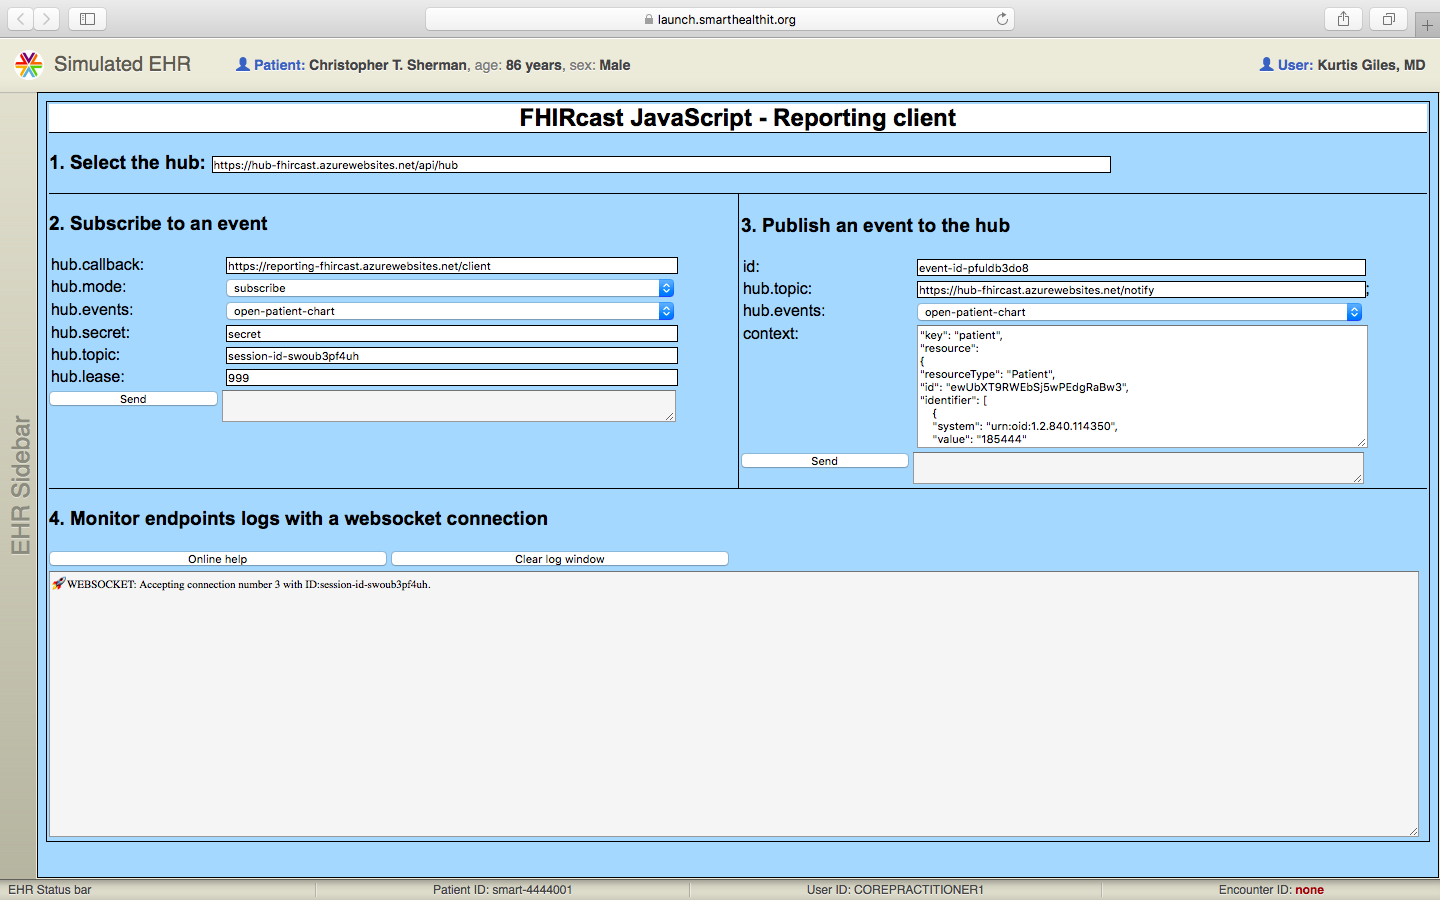
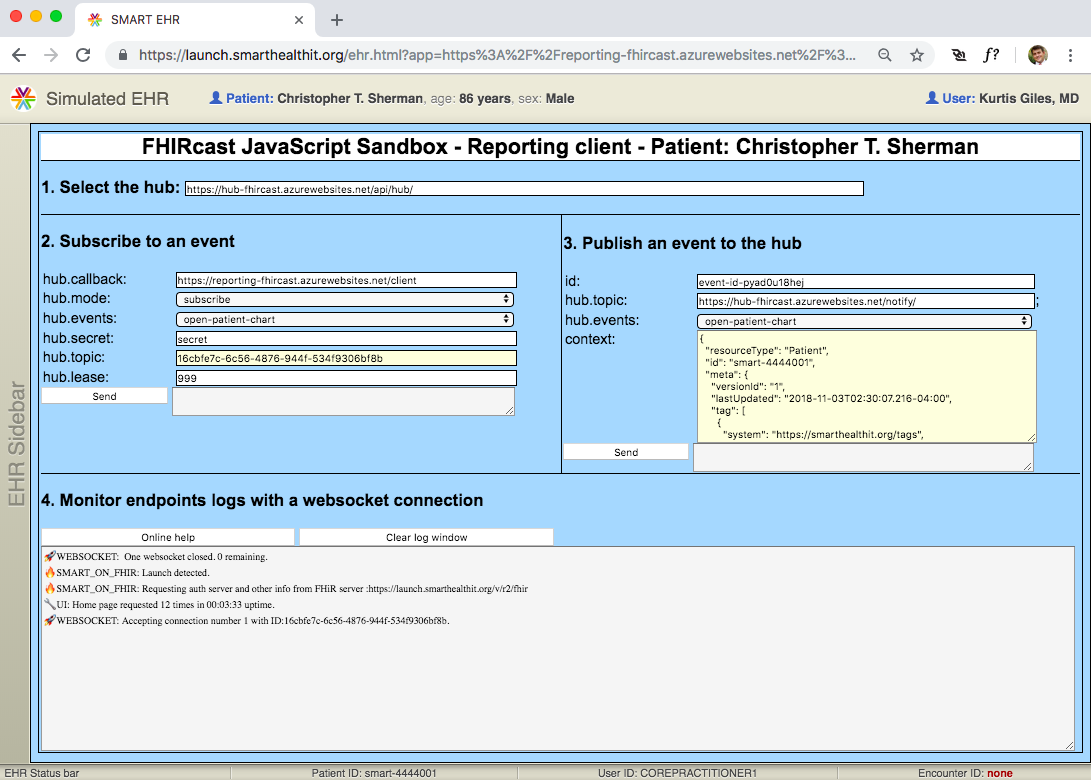
SMART launch

diff --git a/README.md b/README.md
@@ -46,6 +46,9 @@ Test the online [SMART App launcher](https://launch.smarthealthit.org/index.html
 
 This should launch the FHIRcast client within the Simulated EHR and set the context text area with the correct patient context.
 ![SMARTlaunched](/images/SMARTlaunched.png)
+Notice that the 'hub.topic' input textbox has been populated with the SMART session id and the context text area with the correct patient FHIR resource (both highlighted in light yellow).
+
+
 Alternatively, test the SMART launch by navigating to the SMART launch sandbox: http://launch.smarthealthit.org and selecting a patient, provider and the app url which can be a local instance in debug mode.
 
 
